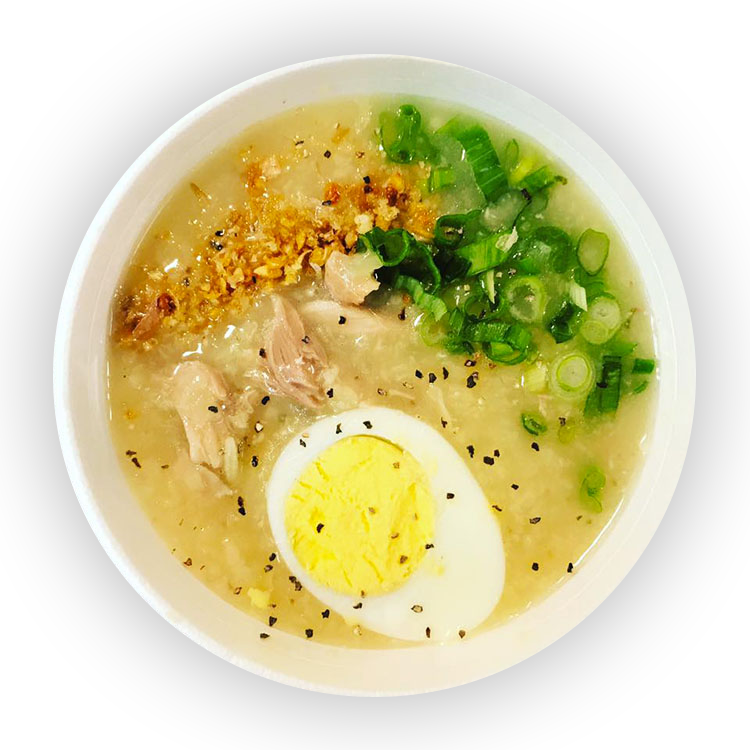
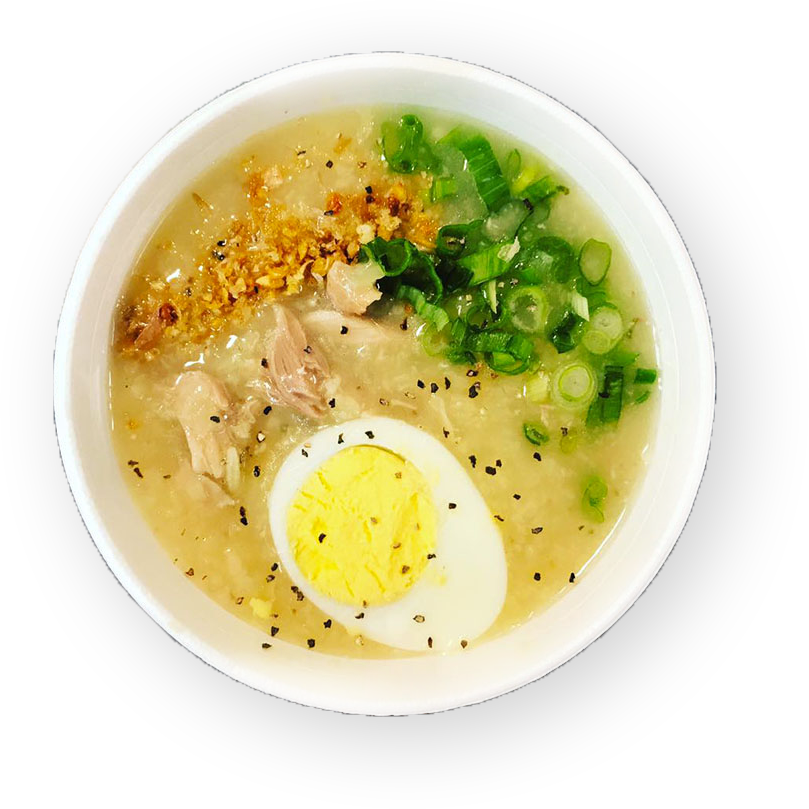
arrozcaldo

diff --git a/screens/Cuisine.js b/screens/Cuisine.js
@@ -76,7 +76,6 @@ function Middle (props){
                     absolute
                     end
                     right={-30}
-                    resizeMode='contain'
                     size={[item.image_scale,item.image_scale]}
                     src={item.image} />
 

diff --git a/screens/History.js b/screens/History.js
@@ -498,7 +498,6 @@ function ListView(props){
                         }}>
 
                         <Pic
-                                resizeMode='contain'
                                 size={[170,170]}
                                 src={item.image} />
 
